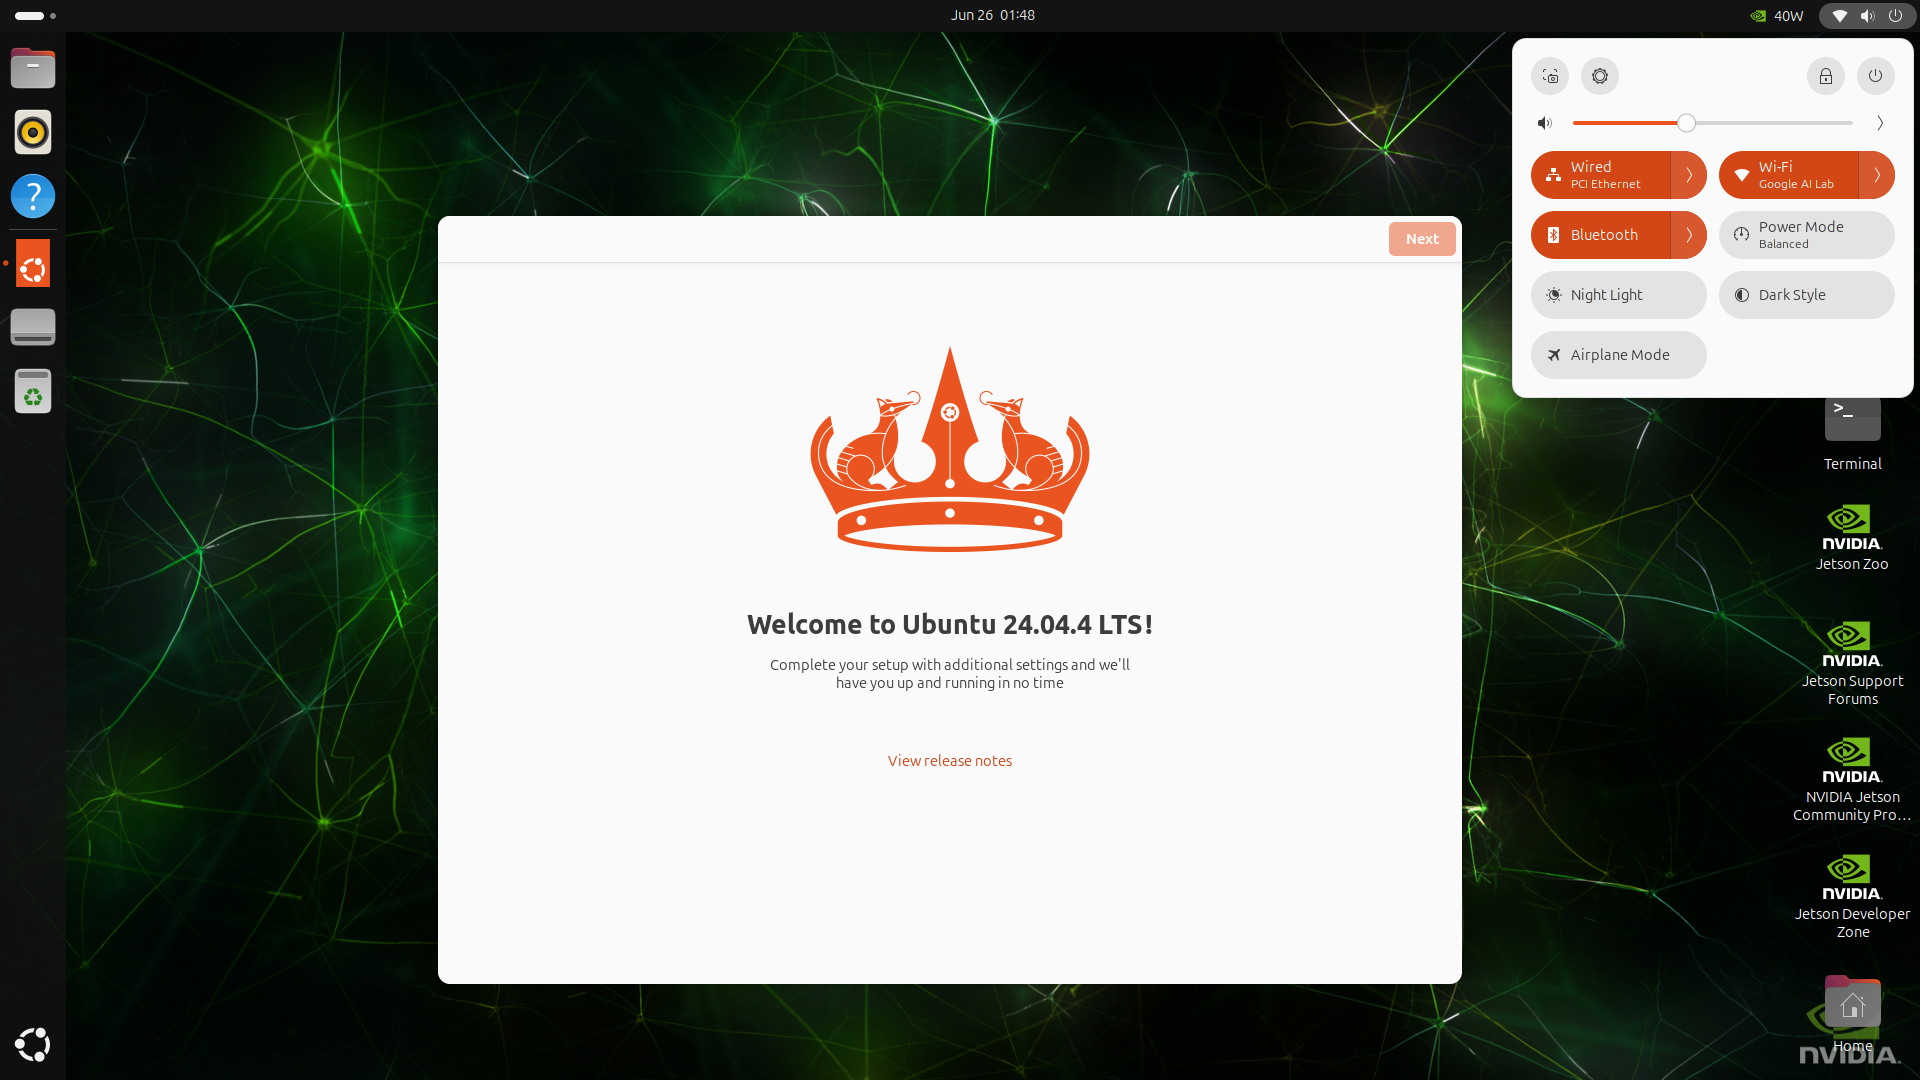
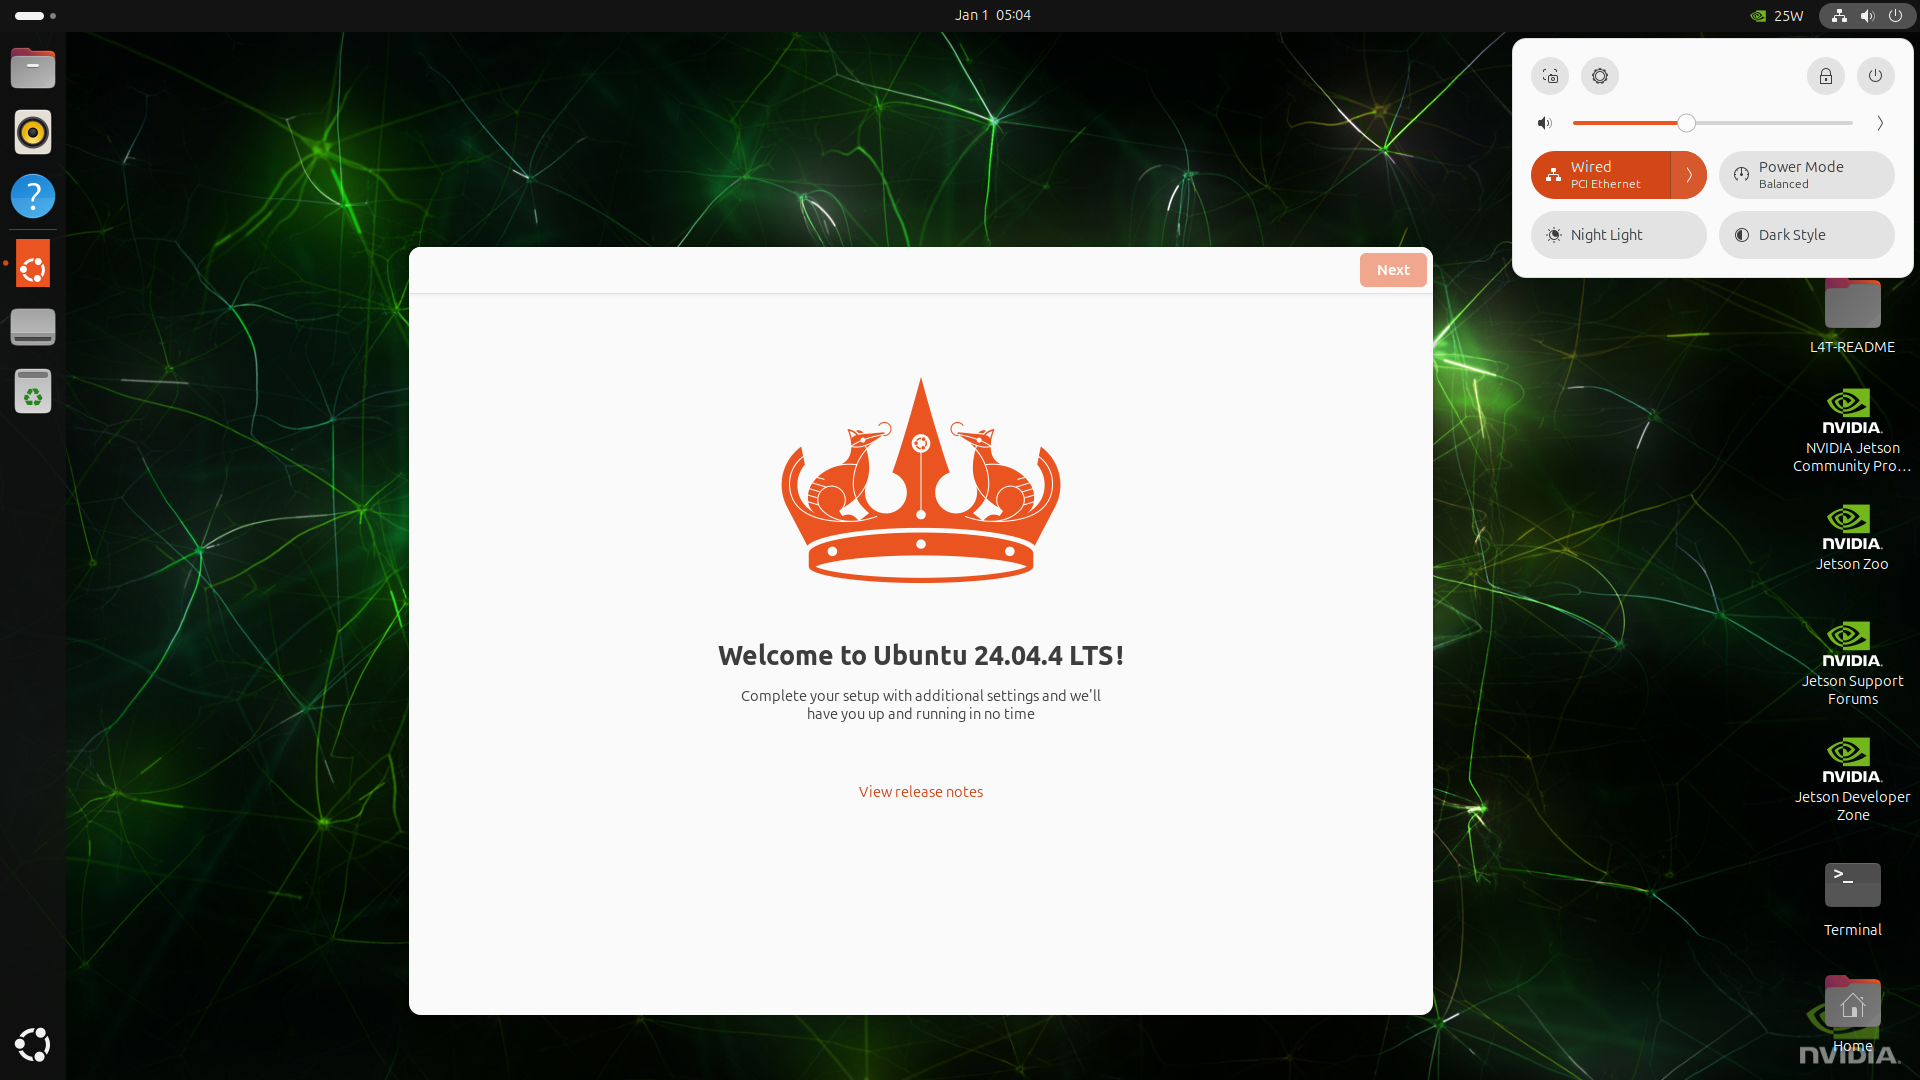
docs: replace G1 screenshots with Go2 device captures
- header-desktop.png: Ubuntu 24.04 (JetPack 7.2) desktop on the Go2 dock
- super-power-modes.png: nvpmodel menu showing MAXN SUPER on the Go2 dock
- update alt/captions to match (15W/25W/MAXN SUPER)

diff --git a/README.md b/README.md
@@ -1,8 +1,8 @@
 # Unitree Go2 JetPack
 
 <p align="center">
-  <img src="docs/header-desktop.png" alt="JetPack desktop on the Unitree Go2 dock's Jetson" width="100%">
-  <br><sub>JetPack (Ubuntu) desktop on the Unitree Go2 dock's Jetson</sub>
+  <img src="docs/header-desktop.png" alt="JetPack 7.2 (Ubuntu 24.04) desktop on the Unitree Go2 dock's Jetson" width="100%">
+  <br><sub>JetPack 7.2 (Ubuntu 24.04) desktop on the Unitree Go2 dock's Jetson</sub>
 </p>
 
 [![version](https://img.shields.io/badge/version-2.0.0-blue?style=flat)](VERSION)
@@ -42,8 +42,8 @@ Pick one with `-j <ver>`.
 > ```
 
 <p align="center">
-  <img src="docs/super-power-modes.png" alt="Jetson power-mode menu — MAXN SUPER plus 10/15/25/40 W, running at 40 W" width="280">
-  <br><sub><b>MAXN_SUPER + 40 W live on the Go2 dock</b> (nvpmodel tray menu)</sub>
+  <img src="docs/super-power-modes.png" alt="Jetson power-mode menu on the Go2 dock — 15 W / 25 W / MAXN SUPER" width="280">
+  <br><sub><b>MAXN_SUPER available on the Go2 dock</b> (nvpmodel tray menu)</sub>
 </p>
 
 Stock JetPack doesn't run cleanly on the Go2 dock — the USB lanes are wired differently (so
